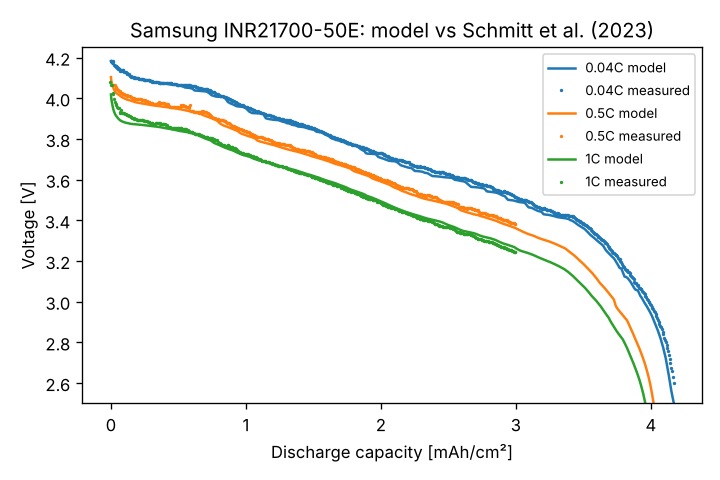
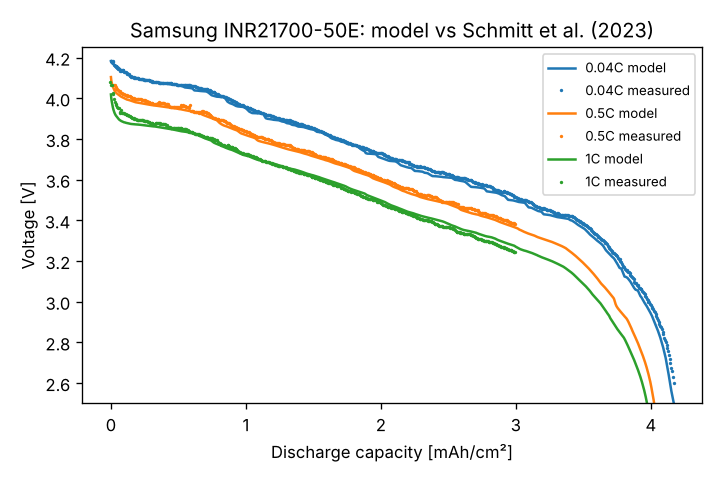
README diagrams: add missing steps and figures, fix order
- Overview, sequence and module diagrams: the SOC/SOH estimator, the fitted
  ageing tests, the TEA report and the TEA end of life feeding the LCA.
- TEA, calibration, ageing-data and system-boundary diagrams: missing nodes
  (retirement at highest NPV, O&M and warranty, can temperature, Preger A123).
- Validation diagram: top-to-bottom order, current figures (NCA 15-24 mV,
  Na-ion warming, LFP 280 Ah cell, field node).
- Embed the calibration, NCA and sodium-ion validation figures.
- NCA voltage error 15-24 mV everywhere; docs/architecture.mmd matches the README.

Claude-Session: https://claude.ai/code/session_01X2DVKRTr1LmDfCnsEfDWs4

diff --git a/app.py b/app.py
@@ -377,7 +377,7 @@ with summary_tab:
                 "The NCA physics model is a commercial cell (Samsung INR21700-50E, 4.9 Ah, NCA / "
                 "graphite-SiOx), parameterised by Schmitt et al. (2023) from a teardown. Checked "
                 "here against their measured discharges at 0.04C, 0.5C and 1C (25 °C): capacity "
-                "within 1 %, voltage error 16–24 mV (RMS). The thermal properties and the "
+                "within 1 %, voltage error 15–24 mV (RMS). The thermal properties and the "
                 "electrolyte come from other sources (Chen 2020; Landesfeind & Gasteiger 2019), "
                 "and the temperature rise has not been compared with measurements.")
             st.caption("The capacity curve comes from: "

diff --git a/src/battery_twin/chemistry.py b/src/battery_twin/chemistry.py
@@ -123,7 +123,7 @@ CHEMISTRIES = {
         "updates": {"SEI growth activation energy [J.mol-1]": 38000.0},  # OKane 2022
         "calibration": "Commercial Samsung INR21700-50E cell, parameterised by Schmitt et al. "
                        "(2023); checked here against their measured discharges at 0.04C, 0.5C "
-                       "and 1C (capacity within 1 %, 16-24 mV RMSE)",
+                       "and 1C (capacity within 1 %, 15-24 mV RMSE)",
         "ageing_source": "Calendar ageing from NREL BLAST-Lite (Panasonic NCR18650B, Keil et al. "
                          "2016); cycling refitted to Preger et al. 2020 and scaled to the "
                          "Samsung 50E's own cycling (REBELION, 2024)",

diff --git a/README.md b/README.md
@@ -250,31 +250,37 @@ Follow the arrows from top to bottom. Each box is one step, with the file that d
 flowchart TD
     USER["You pick the settings: <b>chemistry</b>, <b>charge speed</b>, <b>temperature</b> [<i>app.py</i>]"]
     SHEET[("Battery data sheet: numbers for <b>NMC</b>, <b>LFP</b>, <b>NCA</b>, <b>Na-ion</b> [<i>chemistry.py</i>]")]
-    LAB["Real lab measurements, used once to tune the NMC model [<i>calibration.py</i>]"]
+    LAB["Real lab measurements, used once to tune the physics [<i>calibration.py</i>, <i>fit_electrolyte.py</i>]"]
+    PUB[("Published ageing tests, fitted once [<i>fit_ageing.py</i> → <i>ageing_fit.json</i>]")]
 
     PHYS["<b>1. Physics</b>. Simulate 10 charge/discharge cycles: voltage, current, heat [<i>chemistry.py</i> + <i>PyBaMM</i>]"]
+    EST["<b>1b. Estimation</b>. What a BMS would read: SOC and SOH [<i>estimator.py</i>]"]
     AGE["<b>2. Ageing</b>. Predict capacity loss over thousands of cycles [<i>ageing.py</i>]"]
-    MONEY["<b>3. Money</b>. Is it profitable? NPV, payback, cost per kWh [<i>economics.py</i>]"]
-    CO2["<b>4. Environment</b>. Carbon footprint, water, ecotoxicity, PDF report [<i>environment.py</i> + <i>lca_report.py</i>]"]
+    MONEY["<b>3. Money</b>. Is it profitable? NPV, payback, cost per kWh, end of life, report [<i>economics.py</i> + <i>tea_report.py</i>]"]
+    CO2["<b>4. Environment</b>. Carbon footprint, water, ecotoxicity, report [<i>environment.py</i> + <i>lca_report.py</i>]"]
     OUT["Results on screen: charts, tables, downloads [<i>app.py</i>]"]
 
     USER --> PHYS
     SHEET --> PHYS
     LAB -. "done once" .-> SHEET
+    PUB -. "done once" .-> AGE
+    PHYS --> EST
     PHYS --> AGE
     AGE --> MONEY
     SHEET --> CO2
     AGE --> CO2
+    MONEY -- "end of life" --> CO2
     PHYS --> OUT
+    EST --> OUT
     AGE --> OUT
     MONEY --> OUT
     CO2 --> OUT
-
-  
 ```
 
-The environment step now also receives the ageing curve (arrow `AGE → CO2`), because the
-functional unit of the LCA is the energy delivered over the service life (Section 8).
+The environment step receives the ageing curve (arrow `AGE → CO2`), because the functional
+unit of the LCA is the energy delivered over the service life (Section 8), and the end of
+life from the economics (`MONEY → CO2`): the retirement threshold of highest NPV is the one
+end of life of the run.
 
 ### 3.2 The two time scales
 
@@ -317,7 +323,8 @@ sequenceDiagram
     participant C as chemistry.py
     participant P as PyBaMM
     participant G as ageing.py
-    participant E as economics.py
+    participant X as estimator.py
+    participant E as economics.py / tea_report.py
     participant L as environment.py / lca_report.py
     U->>A: Settings in sidebar, press Run
     A->>C: run_battery_test(chemistry, model, C-rates, cycles, T, h, ...)
@@ -329,9 +336,12 @@ sequenceDiagram
     opt Physics tab: aged windows
         C->>P: run_aged_window(area_scale = q at middle / last window)
     end
-    C-->>A: result (projection, cycles, series, meta, warnings)
-    A->>E: calculate_tea(q(n), ...), sensitivity(), second_life_vs_new()
-    A->>L: lca_results(q(n), ...), build_lca_report() for the PDF
+    C-->>A: result (projection, cycles, series, windows, meta, warnings)
+    A->>X: estimate() on each window: SOC and SOH as a BMS would read them
+    A->>E: tea_at_best_retirement(q(n), ...): end of life of highest NPV, sensitivity()
+    A->>G: ev_first_life(), second_life_curve()
+    A->>E: second_life_vs_new(), build_tea_report() (PDF or Word)
+    A->>L: lca_results(q(n), end of life from the TEA), build_lca_report() (PDF or Word)
     A-->>U: Tabs: Summary, Physics, Economics, Environment, Compare, Download, Sources
 ```
 
@@ -346,19 +356,33 @@ flowchart BT
     economics["economics.py"]
     environment["environment.py"]
     report["lca_report.py"]
+    tea["tea_report.py"]
+    doc["report_doc.py<br/>(PDF or Word)"]
+    params["lfp_blade_params.py,<br/>nca_params.py,<br/>sodium_ion_params.py"]
+    small["estimator.py, pack.py,<br/>update.py, severson.py"]
     sources["sources.py"]
     app["app.py"]
     data[("data/: calibration.json, ageing_fit.json,<br/>published_ageing.csv, severson2019_*.csv,<br/>rebelion2024/, lca_degen2024.csv,<br/>omie_prices_pt_year.csv, validation data")]
     vendor --> ageing --> chemistry
+    params --> chemistry
+    data --> ageing
     data --> chemistry
     data --> environment
     data --> economics
     chemistry --> calibration
     chemistry --> environment --> report
+    ageing --> environment
+    doc --> report
+    doc --> tea
+    economics --> tea
+    environment --> tea
+    ageing --> small
     chemistry --> app
     ageing --> app
     economics --> app
     report --> app
+    tea --> app
+    small --> app
     sources --> app
 ```
 
@@ -627,6 +651,9 @@ flowchart LR
     W1 --> CMP["Overlay: voltage and temperature vs time in cycle;<br/>table of capacity, efficiency, max/mean temperature"]
     W2 --> CMP
     W3 --> CMP
+    W1 -- "OCV curve, R, hysteresis<br/>of the new cell" --> ESTI["SOC and SOH estimate<br/>on each window (Section 4.8)"]
+    W2 --> ESTI
+    W3 --> ESTI
 ```
 
 ### 4.7 Pack row: cells along one coolant channel
@@ -790,7 +817,9 @@ flowchart TD
     S1["1. Lithium inventory<br/>secant method on c_n,0<br/>target: C/10 capacity 4.857 Ah"] --> S2
     S2["2. SEI growth<br/>least squares on log10 D_sol and E_SEI<br/>train: 25 and 40 °C cells (LLI)<br/>test: 10 °C cells (held out)"] --> CHK
     CHK{"Storage shortcut valid?<br/>20 cycles vs storage, same time<br/>within 2 %"} --> S3
-    S3["3. Cooling coefficient h<br/>bisection on h, 5–60 W/m²K<br/>target: measured self-heating, 25 °C chamber"] --> J
+    S3["3. Cooling coefficient h<br/>bisection on h, 5–60 W/m²K<br/>target: measured surface warming, 25 °C chamber<br/>(model: can temperature)"] --> J
+    CAT[("Catenaro & Onori 2021<br/>LG M50 at 2C and 3C")] --> EL
+    EL["Electrolyte diffusivity factor<br/>grid 1.5–3, fit_electrolyte.py<br/>target: 2C and 3C capacity, 25 and 35 °C"] -. "separate script" .-> J
     J[("calibration.json<br/>read by chemistry.py")]
 ```
 
@@ -830,7 +859,10 @@ The fit reproduces lithium loss within 0.5 %-points at 28–41 °C cell temperat
 the model's lithium loss is 2.6 %-points lower than measured (those cells were not used in the
 fit). A likely reason is that a mechanism that grows when cold, such as lithium plating, is
 missing from the solvent-diffusion SEI model. `python scripts/validate.py` repeats the
-comparison for both the physics and the empirical model (Section 10).
+comparison for both the physics and the empirical model (Section 10). The dashboard shows the
+same figure under "How accurate is this?":
+
+![NMC calibration: lithium loss, model vs Kirkaldy et al. 2024](docs/calibration_fit.png)
 
 ---
 
@@ -1088,6 +1120,7 @@ flowchart TD
     LFP1["LFP step 1: scale S<br/>Ohneseit 1C, 20 °C"]
     LFP2["LFP step 2: C_th, M (+ own A123 level, not used)<br/>residual: log cycle-life ratio"]
     LFP1 --> LFP2
+    CSV -- "Preger A123" --> LFP2
     REB[("rebelion2024/<br/>two Samsung 50E cells")] --> NCA2
     NCA --> NCA2["NCA step 2: level λ₅₀E<br/>capacity over 578 cycles"]
     NCA2 --> OUT["results/ageing_fit.json<br/>copied to data/, read by ageing.py"]
@@ -1233,6 +1266,7 @@ flowchart LR
     PR[("OMIE hourly prices<br/>Portugal")] --> DA["Best cycle of each day<br/>buy cheapest, sell dearest<br/>(charge before discharge)"]
     DA --> SEL["N_y best days → mean p_buy, p_sell"]
     Q["q(k) per cycle"] --> Y{"For each year y"}
+    RET["q_ret: threshold of highest NPV<br/>(each of 50–95 % tried)"] --> W
     Y --> W["Working cycles:<br/>q ≥ q_ret and not retired earlier"]
     W --> EO["E_out = C·DoD·Σq"]
     EO --> EI["E_in = E_out / η"]
@@ -1242,9 +1276,11 @@ flowchart LR
     SEL --> CC
     FEE["Grid fees: 0 to 2029 (ERSE),<br/>then chosen scenario"] --> CF
     TAX["IRC 19/18/17 %<br/>after depreciation"] --> CF
+    OM["O&M + warranty (Lazard)<br/>while working"] --> CF
     R --> CF["CF_y = Revenue − Charging − OPEX − fees − tax<br/>(nominal, +2 %/year)"]
     CC --> CF
-    CF --> NPV["NPV, IRR, payback"]
+    CF --> NPV["NPV, IRR, payback<br/>(discount rate r = 7.4 %)"]
+    NPV -. "best threshold" .-> RET
     EO --> LCOS["LCOS"]
     CC --> LCOS
 ```
@@ -1409,6 +1445,7 @@ flowchart LR
         CFF["Circular Footprint Formula"]
     end
     RM --> USE --> EOL
+    IN ~~~ OUT
 ```
 
 ### 8.2 Life cycle inventory and the functional unit (ISO 14044 §4.3)
@@ -1541,9 +1578,9 @@ ISO 14040/14044 elements:
 ```mermaid
 flowchart TD
     R1["1. Goal and scope<br/>FU, reference flow, system boundary, cut-off,<br/>allocation and EoL, impact categories,<br/>data quality requirements, assumptions,<br/>critical review: none"]
-    R2["2. Life cycle inventory<br/>inventory table (setting / simulated / calculated /<br/>literature / assumption), calculation procedures, validation"]
+    R2["2. Life cycle inventory<br/>inventory table (setting / simulated / calculated /<br/>literature / assumption), calculation procedures,<br/>which round-trip efficiency and why, validation"]
     R3["3. Life cycle impact assessment<br/>mandatory elements only; results per stage and per FU"]
-    R4["4. Interpretation<br/>significant issues, completeness, sensitivity,<br/>Llamas-Orozco cross-check, consistency, conclusions"]
+    R4["4. Interpretation<br/>significant issues, completeness, sensitivity,<br/>Llamas-Orozco cross-check, consistency, conclusions,<br/>second life after the car (when chosen)"]
     R5["5. Reporting<br/>statement, run settings, references"]
     R1 --> R2 --> R3 --> R4 --> R5
 ```
@@ -1698,18 +1735,19 @@ there.
 ### 10.1 Validation summary
 
 ```mermaid
-flowchart LR
+flowchart TB
     subgraph PHY["Physics model"]
         V1["NMC lithium loss vs Kirkaldy 2024<br/>train 0.40, test 2.56 %-points RMSE"]
         V9["NMC 1–5C vs Catenaro 2021<br/>capacity ±0.07 Ah, can temperature 3.8 K RMS"]
-        V0["Na-ion discharges vs Schneider 2025<br/>18–49 mV RMSE, C/100–5C"]
-        V7["NCA discharges vs Schmitt 2023<br/>capacity ±1 %, 16–24 mV, 0.04–1C;<br/>two 50E cells: capacity ±1 %, 0.75C warming"]
+        V0["Na-ion discharges vs Schneider 2025<br/>18–49 mV RMSE, C/100–5C;<br/>warming 2.9 vs 3.2 K (1C)"]
+        V7["NCA discharges vs Schmitt 2023<br/>capacity ±1 %, 15–24 mV, 0.04–1C;<br/>two 50E cells: capacity ±1 %, 0.75C warming"]
         V8["LFP (BYD Blade): Blade pulse resistance ±0.05 mΩ; BYD 4680 10–14 vs 6–17 Ω·cm²<br/>R(T) within 4 % (280 Ah cell)"]
     end
     subgraph EMP["Empirical ageing"]
         V2["NMC: 24 conditions, ×1.38<br/>held-out Kirkaldy: 1.0–1.5 %-points"]
         V3["NCA: Preger, 8 of 9 within ≈15 %;<br/>50E level 0.63 %-points; 1,470 vs 1,300–1,500"]
-        V4["LFP: Ohneseit level; Severson ×1.27;<br/>knee: 2.7 vs 6.9 %-points"]
+        V4["LFP: Ohneseit level; Severson ×1.27;<br/>knee: 2.7 vs 6.9 %-points;<br/>280 Ah cell, 700 cycles: 1.4 %-points"]
+        V11["Field: Smart fleet 1.5 points (fitted),<br/>ID.3 car and cell, Tesla Model 3,<br/>21 home storage systems"]
         V5["Na-ion: 2 layered-oxide cells to 80 %<br/>(Liu 2026)"]
     end
     subgraph EST["SOC and SOH estimation"]
@@ -1718,6 +1756,7 @@ flowchart LR
     subgraph SW["Software"]
         V6["117 automated tests (pytest, CI)"]
     end
+    PHY ~~~ EMP ~~~ EST ~~~ SW
 ```
 
 - **NMC physics** is calibrated to measured LG M50T data (Kirkaldy et al., J. Power Sources
@@ -1756,6 +1795,9 @@ flowchart LR
   charging fast in the cold the anode surface fills up and the solver may stop: the program
   retries with other particle meshes (`SODIUM_MESH_STRETCHES` in `chemistry.py`), then reports
   a clear error.
+
+  ![Sodium-ion model vs Schneider et al. 2025](docs/sodium_validation.png)
+
 - **Sodium-ion ageing** is a straight line per cycle, default 0.05 %/cycle (layered-oxide
   18650 cells, Liu et al. 2026, measured to 80 %); below 80 % it is an extrapolation. Early
   commercial cells vary a lot between makers and batches (0.008–0.05 %/cycle in Liu et al.),
@@ -1802,7 +1844,7 @@ flowchart LR
   ![LFP curve shape vs Severson et al. 2019](docs/lfp_shape_severson.png)
 
 - **NCA physics** is a commercial cell (Samsung INR21700-50E) parameterised by Schmitt et al.
-  (2023). Against their measured discharges at 25 °C it is within 1 % in capacity and 16–24 mV
+  (2023). Against their measured discharges at 25 °C it is within 1 % in capacity and 15–24 mV
   RMS in voltage at 0.04C, 0.5C and 1C (`scripts/validate_nca.py`; the paper's own isothermal
   model was 4.5 % short at 1C). Not given in the paper and taken from elsewhere: the thermal
   properties (Chen 2020, also a 21700 cell) and the electrolyte (Landesfeind & Gasteiger 2019
@@ -1822,6 +1864,9 @@ flowchart LR
   Capacity is within 1 % and the 0.75C warming matches the warmer cell. At C/5 the model
   warms a quarter as much as the cells: its parameter set has no entropic (reversible) heat,
   which dominates at low current. Measured entropy coefficients of the 50E would fix it.
+
+  ![NCA model vs Schmitt et al. 2023](docs/nca_validation.png)
+
 - **LFP physics** is a commercial BEV cell, the BYD Blade (135 Ah), built from the teardown of
   Gorsch et al. (2025): coatings, foils, separator, number of layers, electrode sizes (Fig. 5),
   component masses (Fig. 7) and capacity. The 0.9 m long foils add 0.28 mΩ, computed from

diff --git a/src/battery_twin/data/schmitt2023/README.md b/src/battery_twin/data/schmitt2023/README.md
@@ -20,4 +20,4 @@ LiNi0.87Co0.11Al0.02O2 (NCA), anode graphite with Si/SiOx.
 | `measured_discharge_voltage.csv` | measured discharges at 0.04C (full), 0.5C and 1C (to 3 mAh/cm², where measured and simulated curves overlap) and each end capacity at 2.5 V | Fig. 14a |
 
 Checks: the OCPs reproduce the measured OCV within 12 mV RMS; the model reproduces the
-measured discharges within 1 % in capacity and 16–24 mV RMS (`scripts/validate_nca.py`).
+measured discharges within 1 % in capacity and 15–24 mV RMS (`scripts/validate_nca.py`).
